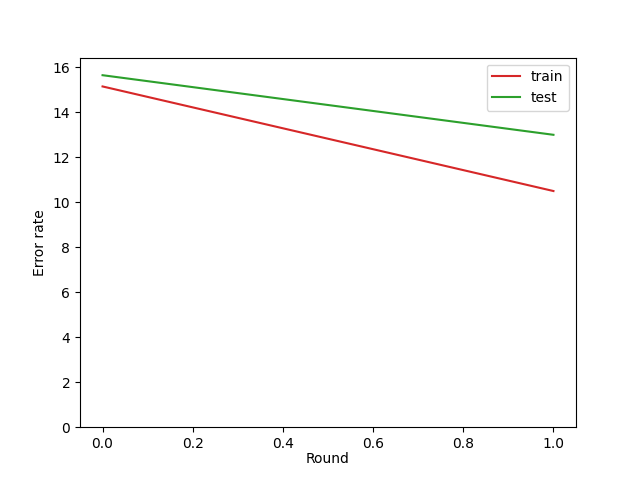
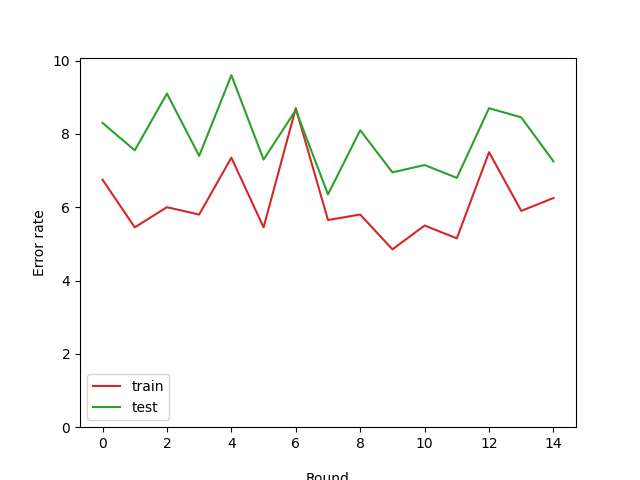
finish

diff --git a/project1/models.py b/project1/models.py
@@ -8,12 +8,11 @@ from torch import optim
 from modelclass import Model
 
 
-
 class Baseline(Model):
     """ The Baseline model is composed only of fully-connected layers. """
 
-    def __init__(self, f_gen_data, nb_epochs=25, mini_batch_size=100, learning_rate=1e-3):
-        super().__init__(f_gen_data, nb_epochs, mini_batch_size, learning_rate)
+    def __init__(self, f_gen_data, nb_epochs=25, mini_batch_size=100, learning_rate=1e-3, l2_rate=0):
+        super().__init__(f_gen_data, nb_epochs, mini_batch_size, learning_rate, l2_rate)
 
         # layer 1
         self.fc1 = nn.Linear(392, 160)
@@ -59,8 +58,8 @@ class Baseline(Model):
 class Auxiliary(Model):
     """ This model extends the baseline model by adding auxiliary loss """
 
-    def __init__(self, f_gen_data, nb_epochs=25, mini_batch_size=100, learning_rate=2e-2):
-        super().__init__(f_gen_data, nb_epochs, mini_batch_size, learning_rate)
+    def __init__(self, f_gen_data, nb_epochs=25, mini_batch_size=100, learning_rate=2e-2, l2_rate=0):
+        super().__init__(f_gen_data, nb_epochs, mini_batch_size, learning_rate, l2_rate)
 
         # tell parent class we use auxiliary loss
         self.useAuxiliary = True
@@ -110,23 +109,23 @@ class Auxiliary(Model):
 class CNN(Model):
     """ This model implements weight sharing """
 
-    def __init__(self, f_gen_data, nb_epochs=25, mini_batch_size=100, learning_rate=1e-3):
-        super().__init__(f_gen_data, nb_epochs, mini_batch_size, learning_rate)
+    def __init__(self, f_gen_data, nb_epochs=25, mini_batch_size=100, learning_rate=1e-3, l2_rate=0.1):
+        super().__init__(f_gen_data, nb_epochs, mini_batch_size, learning_rate, l2_rate)
 
         # 1st layer : convolutional
-        self.conv1 = nn.Conv2d(2, 16, kernel_size=5, padding=2)
-        self.bn1 = nn.BatchNorm2d(16)
+        self.conv1 = nn.Conv2d(2, 32, kernel_size=5, padding=2)
+        self.bn1 = nn.BatchNorm2d(32)
         self.drop1 = nn.Dropout(0.2)
 
         # 2nd layer : convolutional
-        self.conv2 = nn.Conv2d(16, 64, kernel_size=3, padding=3)
+        self.conv2 = nn.Conv2d(32, 64, kernel_size=3, padding=3)
         self.bn2 = nn.BatchNorm2d(64)
         self.drop2 = nn.Dropout(0.1)
 
         # 3rd layer : convolutional
         self.conv3 = nn.Conv2d(64, 32, kernel_size=3, padding=3)
         self.bn3 = nn.BatchNorm2d(32)
-        self.drop3 = nn.Dropout(0.5)
+        # self.drop3 = nn.Dropout(0.5)
 
         # 4th layer : convolutional
         self.conv4 = nn.Conv2d(32, 16, kernel_size=5, padding=3)
@@ -143,7 +142,6 @@ class CNN(Model):
         print(sum(p.numel() for p in self.parameters() if p.requires_grad))
 
     def forward(self, x):
-
         # layer 1
         x = F.max_pool2d(F.relu(self.bn1(self.conv1(x))), kernel_size=3)
         x = self.drop1(x)
@@ -154,7 +152,7 @@ class CNN(Model):
 
         # layer 3
         x = F.max_pool2d(F.relu(self.bn3(self.conv3(x))), kernel_size=2)
-        x = self.drop3(x)
+        # x = self.drop3(x)
 
         # layer 4
         x = F.max_pool2d(F.relu(self.bn4(self.conv4(x))), kernel_size=2)
@@ -176,19 +174,19 @@ class CNN(Model):
 class CNN_Auxiliary(Model):
     """ This model implements weight sharing uses auxiliary loss """
 
-    def __init__(self, f_gen_data, nb_epochs=25, mini_batch_size=100, learning_rate=1e-3):
-        super().__init__(f_gen_data, nb_epochs, mini_batch_size, learning_rate)
+    def __init__(self, f_gen_data, nb_epochs=25, mini_batch_size=100, learning_rate=1e-3, l2_rate=0.1):
+        super().__init__(f_gen_data, nb_epochs, mini_batch_size, learning_rate, l2_rate)
 
         # tell parent class we use auxiliary loss
         self.useAuxiliary = True
 
         # 1st layer : convolutional
-        self.conv1 = nn.Conv2d(1, 16, kernel_size=5, padding=2)
-        self.bn1 = nn.BatchNorm2d(16)
+        self.conv1 = nn.Conv2d(1, 32, kernel_size=5, padding=2)
+        self.bn1 = nn.BatchNorm2d(32)
         self.drop1 = nn.Dropout(0.2)
 
         # 2nd layer : convolutional
-        self.conv2 = nn.Conv2d(16, 64, kernel_size=3, padding=3)
+        self.conv2 = nn.Conv2d(32, 64, kernel_size=3, padding=3)
         self.bn2 = nn.BatchNorm2d(64)
         self.drop2 = nn.Dropout(0.1)
 

diff --git a/project1/modelclass.py b/project1/modelclass.py
@@ -15,17 +15,13 @@ class Model(nn.Module):
         sets_size : int
             the size of both the training and the testing sets
 
-        name : string
-            name of the model
-
         useAuxiliary : Boolean
             determines if the model uses auxiliary loss or not
 
         f_gen_data : function
             a function taking a an int and generating the training and testing data
 
-        batch_size : int
-            size of a mini-batch
+        epochs, batch_size, lr, l2 : hyper-parameters
 
         Methods
         -------
@@ -38,12 +34,13 @@ class Model(nn.Module):
 
     sets_size = 1000
 
-    def __init__(self, f_gen_data, nb_epochs=25, mini_batch_size=100, learning_rate=5e-3):
+    def __init__(self, f_gen_data, nb_epochs=25, mini_batch_size=100, learning_rate=5e-3, l2_rate=0.1):
         super().__init__()
         self.generate_data = f_gen_data
         self.epochs = nb_epochs
         self.batch_size = mini_batch_size
         self.lr = learning_rate
+        self.l2 = l2_rate
         self.useAuxiliary = False  # Need to resize tensors if True
 
     @abstractmethod
@@ -91,6 +88,8 @@ class Model(nn.Module):
 
         for e in range(self.epochs):
             for b in range(0, train_input.size(0), self.batch_size):
+
+                # if use auxiliary loss, add both digit classification and comparison loss
                 if self.useAuxiliary:
                     digit_class, final_class = self(train_input.narrow(0, b, self.batch_size))
                     loss = \
@@ -106,9 +105,14 @@ class Model(nn.Module):
                             train_target.narrow(0, b // 2, self.batch_size // 2)
                         )
 
+                # use only comparison loss
                 else:
                     final_class = self(train_input.narrow(0, b, self.batch_size))
                     loss = criterion(final_class, train_target.narrow(0, b, self.batch_size))
+
+                # L2 penalty
+                for p in self.parameters():
+                    loss += self.l2 * p.pow(2).sum()
 
                 self.zero_grad()
                 loss.backward()

diff --git a/project1/test.py b/project1/test.py
@@ -51,8 +51,8 @@ def main():
     # model4 = CNN_Auxiliary(generate_pair_sets)
     # mRes4 = train_and_test_rounds(model4, number_rounds, "CNN_Aux")
 
-    # plot_model_result(mRes1, number_rounds)
-    plot_models_results_comparison([mRes3], number_rounds, True)
+    plot_model_result(mRes3, number_rounds)
+    # plot_models_results_comparison([mRes1, mRes2, mRes3, mRes4], number_rounds, True)
 
 
 if __name__ == '__main__':
